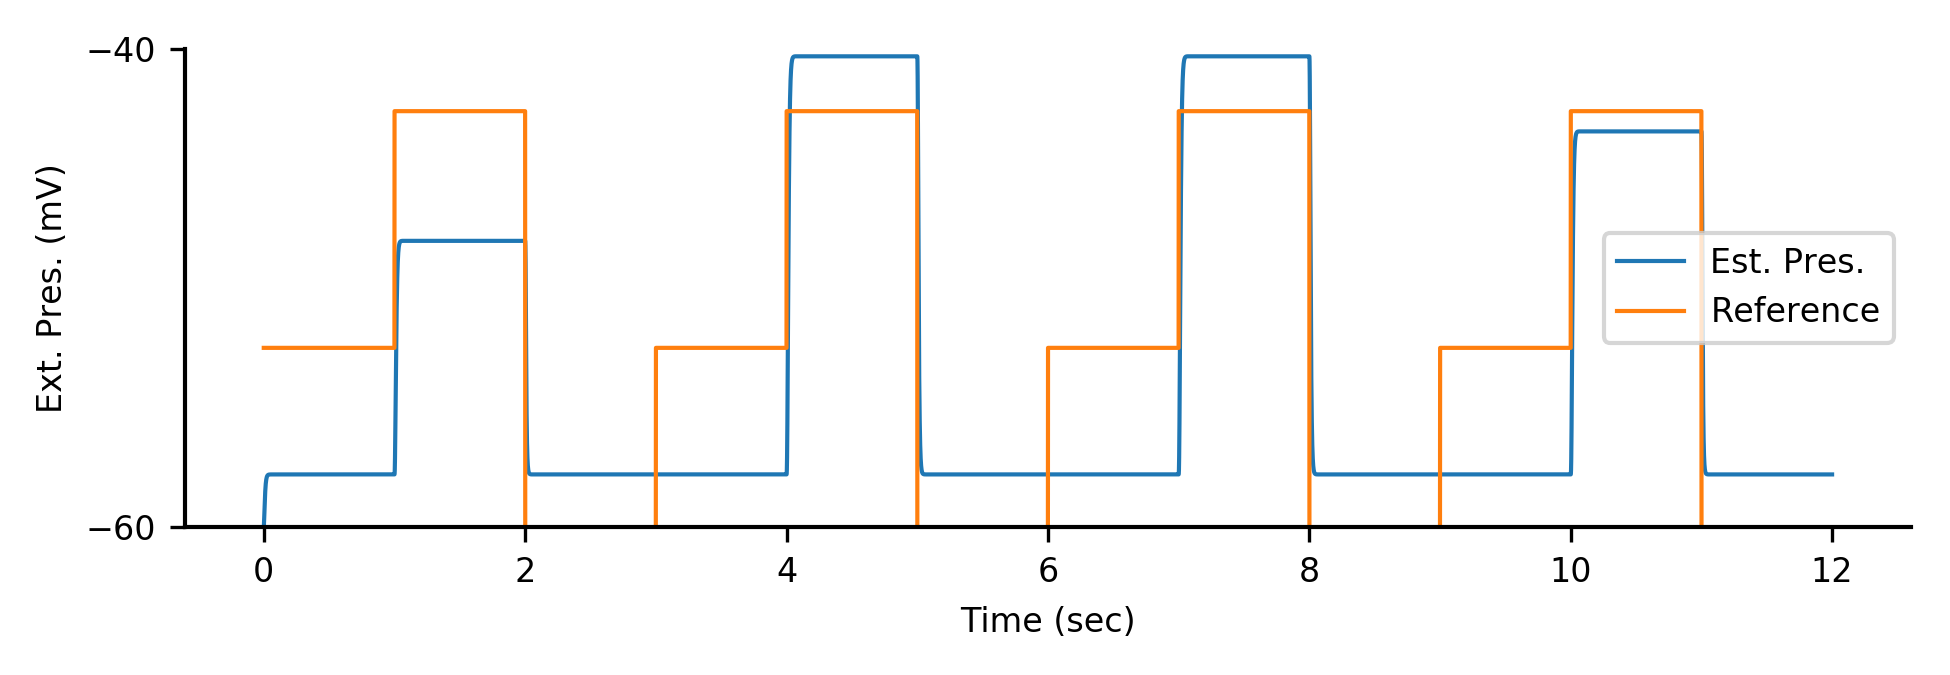
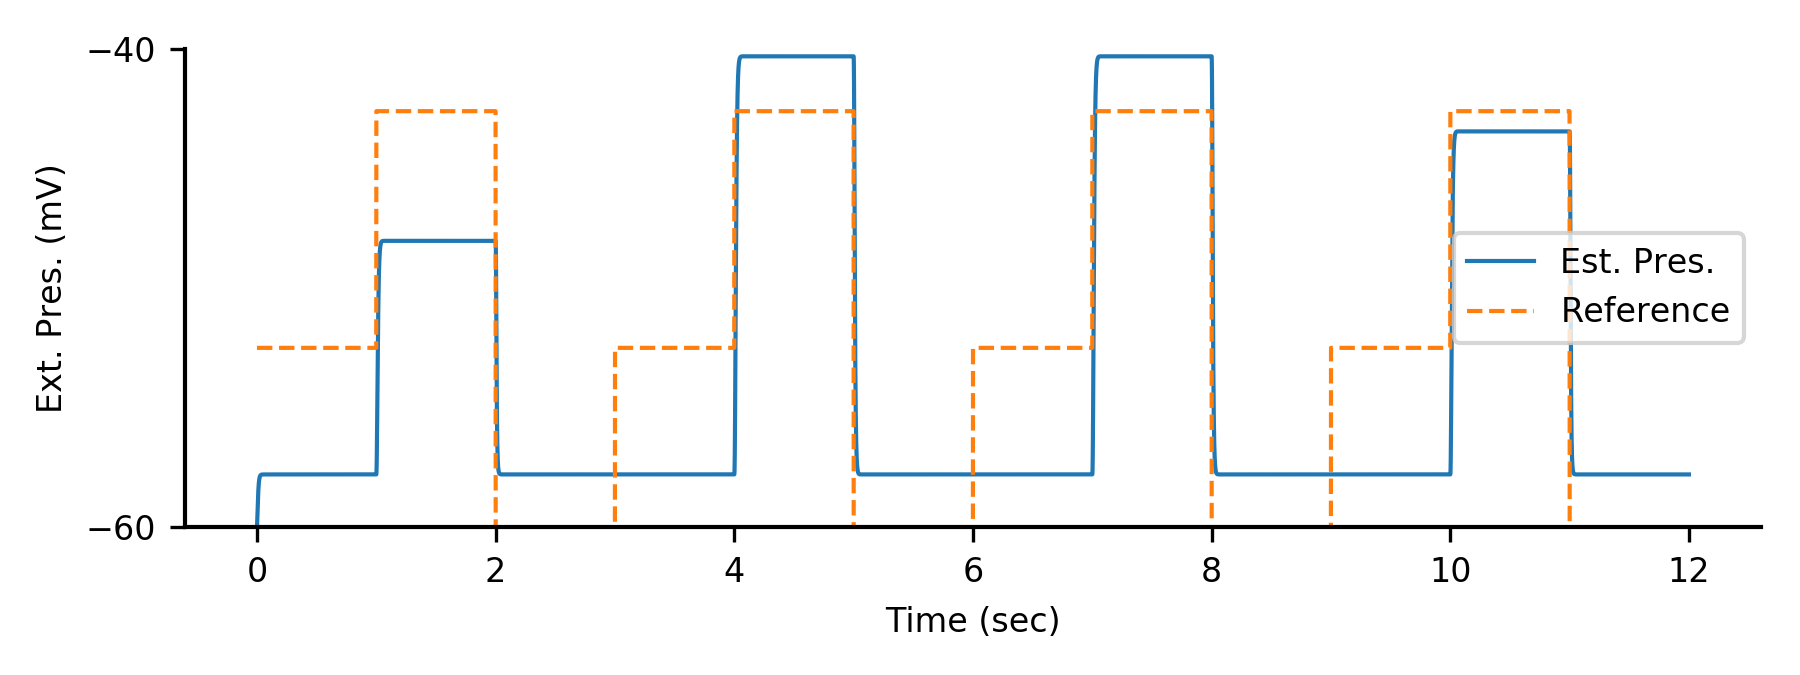
Redash t2p

diff --git a/writeup/scripts/plot_T2P_full.py b/writeup/scripts/plot_T2P_full.py
@@ -70,8 +70,7 @@ ax1.legend()
 ax2.legend()
 plt.tight_layout()
 plt.savefig('images/methods/T2PInput.png')
-# plt.show()
-1/0
+plt.show()
 
 # ax1 = fig.add_subplot('211')
 # ax2 = fig.add_subplot('212')
@@ -82,13 +81,13 @@ for name, datasets in setup:
     # else:
     #     ax = ax2
     count += 1
-    fig = plt.figure(figsize=(6.5,2.25,), dpi=300)
+    fig = plt.figure(figsize=(6,2.25,), dpi=300)
     ax = fig.add_subplot('111')
 
     vel, ref = datasets
     ax.plot(time[5000:], vel[5000:], linewidth=linewidth, label='Est. Pres.')
     print('plot ref')
-    ax.plot(time[5000:], ref[5000:], linewidth=linewidth, label='Reference')
+    ax.plot(time[5000:], ref[5000:], linewidth=linewidth, linestyle='dashed', label='Reference')
 
     if count == 1:
         ax.set_ylabel('Ext. Pres. (mV)')
